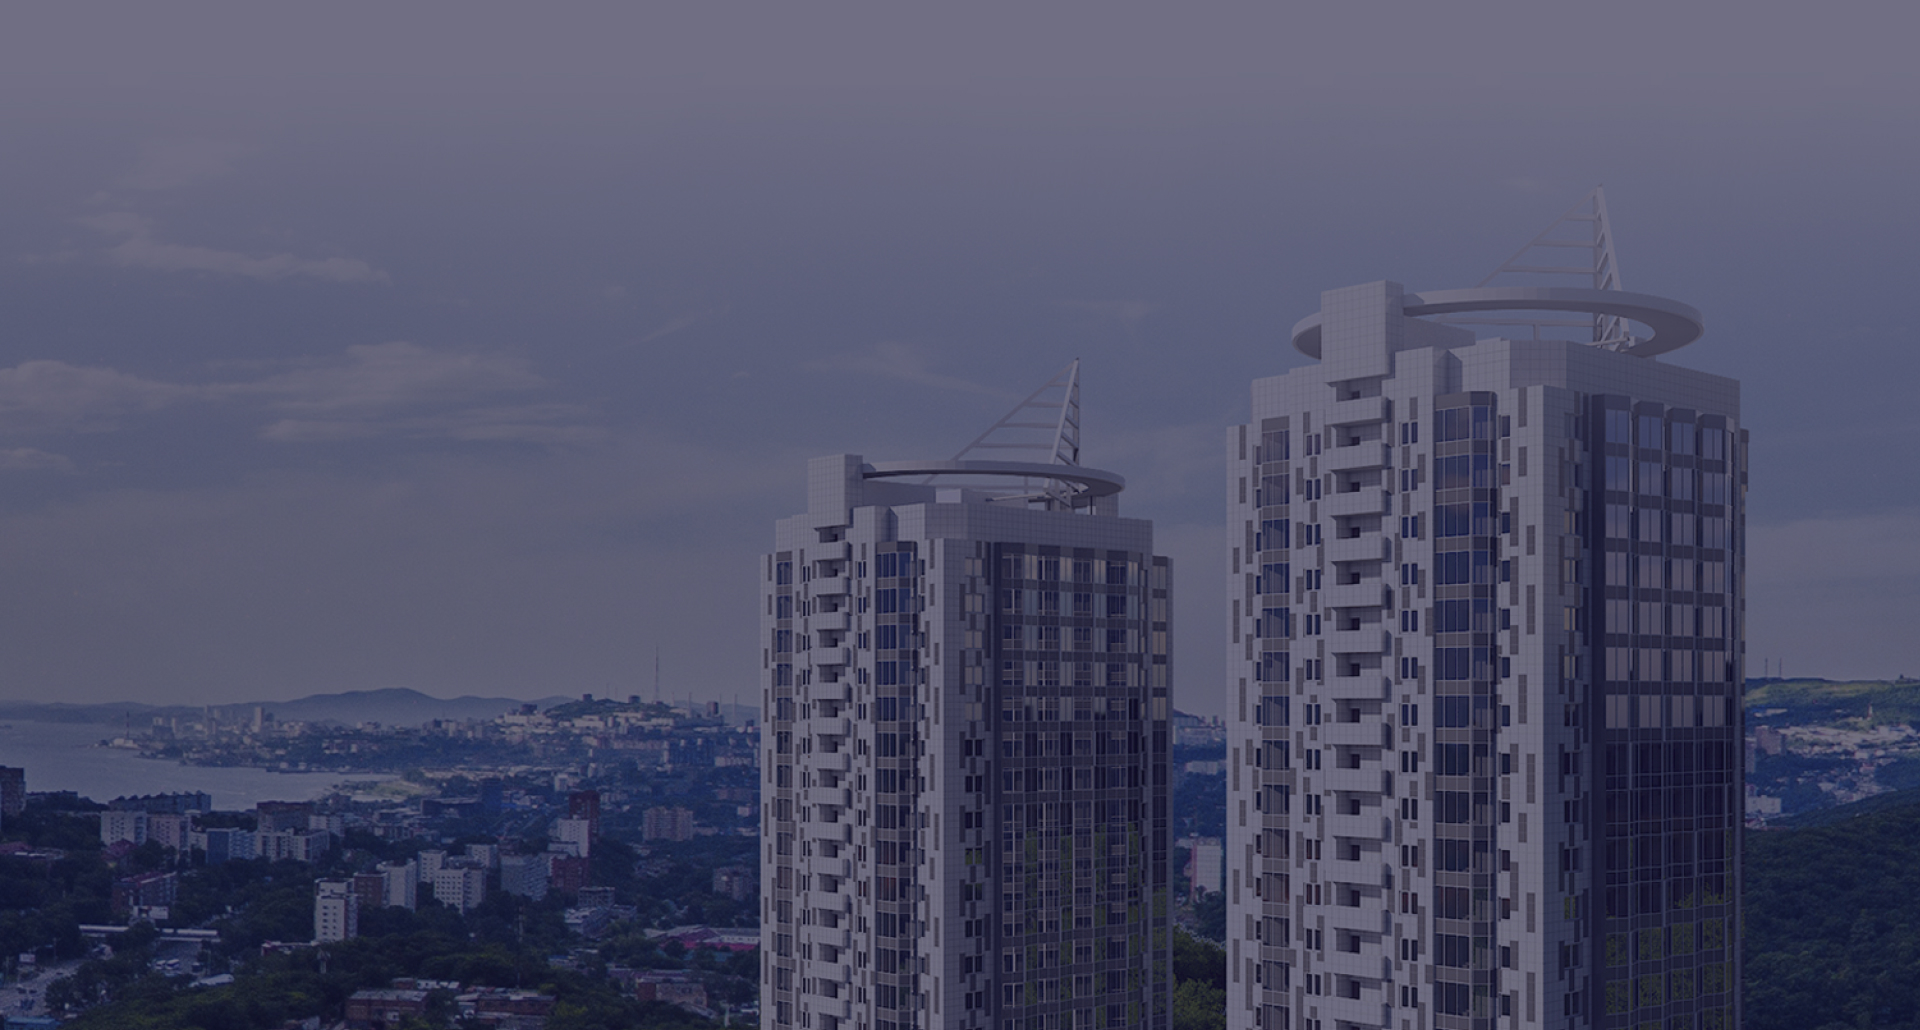
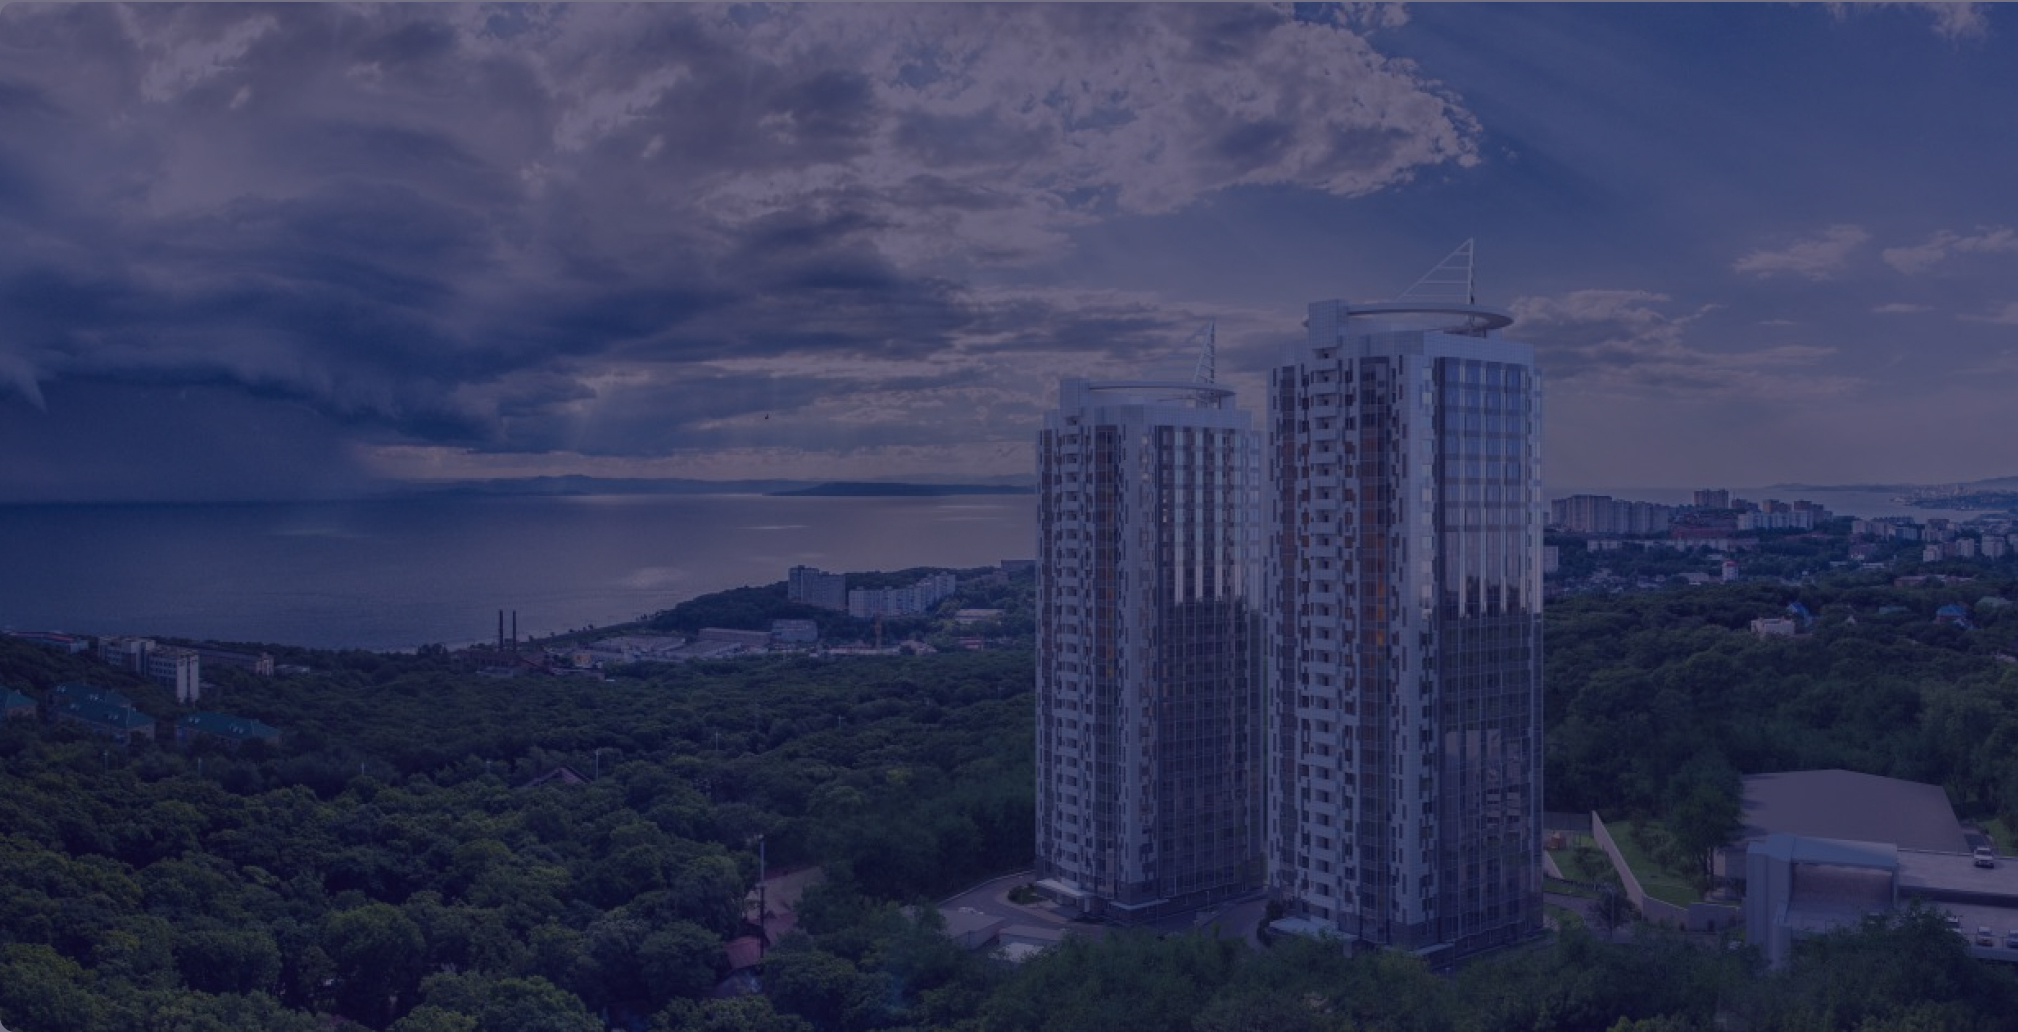
Проработка CSS блоков

diff --git a/style.css b/style.css
@@ -126,7 +126,7 @@
 .page__body {
   margin: 0 auto;
   color: var(--dark-grey);
-  background-color: var(--bg-grey-1);
+  background-color: var(--white);
   font-size: 18px;
 }
 
@@ -159,6 +159,11 @@ li, p {
   margin: 0;
 }
 
+span {
+  font-weight: 500;
+  color: var(--black);
+}
+
 .block-title {
   font-family: 'Stem',  Arial, sans-serif;
   font-size: 60px;
@@ -178,6 +183,7 @@ li, p {
   font-size: 18px;
   line-height: 1em;
   position: relative;
+  top: 50px;
 }
 
 .page-header__wrapper {
@@ -258,6 +264,10 @@ li, p {
   color: var(--white);
 }
 
+.promo-block__wrapper {
+  padding-bottom: 135px;
+}
+
 .promo-block::before {
   display: block;
   content: "";
@@ -266,7 +276,7 @@ li, p {
   height: 1030px;
   background-image: url("img/main-pic-filter.jpg");
   background-repeat: no-repeat;
-  background-position-x: 50%;
+  background-size: cover;
   z-index: -2;
   top: 0;
 }
@@ -276,10 +286,18 @@ li, p {
   font-size: 60px;
   line-height: 70px;
   font-weight: 900;
+  max-width: 650px;
+  margin-top: 93px;
+  margin-bottom: 55px;
+}
+
+.promo-block p {
+  max-width: 47%;
 }
 
 .promo-block__upper-description {
   color: var(--add-grey);
+  margin-bottom: 55px;
 }
 
 .promo-block span {
@@ -290,58 +308,217 @@ li, p {
 .promo-block__links {
   font-family: 'Averta';
   font-weight: 500;
+  font-size: 18px;
   line-height: 24px;
   color: var(--white);
+  margin-top: 70px;
 }
 
 .button-blue {
   background-color: var(--blue);
   color: var(--white);
-  padding: 1em 2.25em;
+  padding: 17.5px 45px;
   border-radius: 12px;
+  font-family: 'Averta';
+  font-weight: 500;
+  font-size: 18px;
+  line-height: 24px;
 }
 
-
-
-
-
-
-
-
-
-
-
-
-
-
-
-
-
-
-
-
-
-
-
-
-
-
-
+.promo-block__links-find-apart {
+  padding: 17px 45px;
+  border: 1px solid var(--white);
+  border-radius: 12px;
+  margin-left: 24px;
+}
 
 
 /* чем занимается компания */
 
+.about-us-block__wrapper {
+  padding: 180px 0;
+  position: relative;
+}
 
+.about-us-block__wrapper::before {
+  display: block;
+  content: "";
+  position: absolute;
+  width: 340px;
+  height: 666px;
+  background-image: url("img/phone-pic.png");
+  background-repeat: no-repeat;
+  left: 68%;
+  top: 70px;
+}
+
+.about-us-block__wrapper::after {
+  display: block;
+  content: "";
+  position: absolute;
+  width: 562px;
+  height: 562px;
+  border-radius: 50%;
+  background: var(--bg-grey-2);
+  left: 62%;
+  top: 115px;
+  z-index: -2;
+}
+
+.about-us-block__title {
+  margin-bottom: 30px;
+}
+
+.about-us-block p {
+  font-family: 'Museo';
+  font-weight: 300;
+  font-size: 20px;
+  line-height: 30px;
+  color: var(--dark-grey);
+  max-width: 564px;
+}
+
+.about-us-block__lower-description {
+  margin-top: 47px;
+  margin-bottom: 60px;
+}
 
 /* основная инфа по компании */
 
+.info-block__wrapper {
+  display: flex;
+  padding-top: 20px;
+  padding-bottom: 161px;
+}
 
+.info-block__options {
+  display: flex;
+  margin-right: auto;
+}
 
+.info-block__options-link {
+  padding: 2em 2.25vw;
+  display: flex;
+  flex-direction: column;
+}
+
+.info-block__options-link:hover {
+  box-shadow: 0px 0px 108px rgba(0, 0, 0, 0.06);
+  border-radius: 12px;
+}
+
+.info-block__options-link:hover .info-block__options-link-btn {
+  background-color: var(--blue);
+  color: var(--white);
+  border: none;
+}
+
+.info-block__options-link img {
+  margin-bottom: 48px;
+}
+
+.info-block__options-link-title {
+  font-family: "Stem";
+  font-weight: 700;
+  font-size: 28px;
+  line-height: 28px;
+  color: var(--black);
+  margin-bottom: 20px;
+  white-space: nowrap;
+}
+
+.info-block__options-link-desc {
+  max-width: 300px;
+  margin-bottom: 41px;
+  font-family: 'Museo';
+  font-weight: 300;
+  font-size: 18px;
+  line-height: 30px;
+  color: var(--grey);
+}
+
+.info-block__options-link-btn {
+  padding: 17px 45px;
+  border: 1px solid var(--add-grey);
+  border-radius: 12px;
+  font-family: 'Averta';
+  font-weight: 500;
+  font-size: 18px;
+  line-height: 16px;
+  cursor: pointer;
+}
+
+.info-block__description {
+  display: flex;
+  flex-direction: column;
+  max-width: 500px;
+}
+
+.info-block__description-title {
+  margin-bottom: 40px;
+}
+
+.info-block__description p {
+  font-family: 'Museo';
+  font-weight: 300;
+  font-size: 20px;
+  line-height: 30px;
+  color: var(--dark-grey);
+}
+
+.info-block__description-middle {
+  margin: 48px 0;
+}
+
+.info-block__description-links {
+  font-family: 'Averta';
+  font-weight: 500;
+  font-size: 18px;
+  line-height: 16px;
+  cursor: pointer;
+  color: var(--blue);
+  margin-top: 45px;
+}
+
+.info-block__description-phone {
+  margin-right: 64px;
+}
 
 /* преимущества */
 
+.advantages-block__wrapper {
+  background-color: var(--black);
+  border-radius: 20px;
+  width: 90vw;
+}
+
+.advantages-block__list {
+  display: grid;
+  grid-template-columns: 1fr 1fr 1fr;
+  padding: 85px 65px;
+}
+
+.advantages-block__item {
+  padding-left: 100px;
+}
 
 
+.advantages-block__item-title {
+  font-family: 'Stem';
+  font-weight: 500;
+  font-size: 34px;
+  line-height: 40px;
+  color: var(--white);
+  margin-bottom: 13px;
+}
+
+.advantages-block__item-desc {
+  font-family: 'Museo';
+  font-weight: 300;
+  font-size: 18px;
+  line-height: 30px;
+  color: var(--add-grey);
+}
 
 /* подбор квартиры (форма) */
 
@@ -360,3 +537,47 @@ li, p {
 
 
 /* футер */
+
+.page-footer__container {
+  display: grid;
+  grid-template-columns: 1fr 1fr 1fr 1fr 1fr;
+  padding: 68px 0;
+}
+
+.page-footer__container-info {
+  font-family: 'Museo';
+  font-weight: 300;
+  font-size: 20px;
+  line-height: 30px;
+  margin-top: 33px;
+}
+
+.page-footer__container-item {
+  font-family: 'Averta';
+  font-weight: 300;
+  font-size: 18px;
+  line-height: 18px;
+}
+
+.page-footer__container-item:not(:nth-child(4)) {
+  margin-bottom: 24px;
+}
+
+.page-footer__container-socials-link {
+  gap: 4px 8px;
+}
+
+.page-footer__itome {
+  display: flex;
+  justify-content: center;
+  border-top: 1px solid var(--add-grey);
+}
+
+.page-footer__itome a {
+  font-family: 'Museo';
+  font-weight: 300;
+  font-size: 16px;
+  line-height: 18px;
+  padding: 47px 0;
+
+}

diff --git a/index.html b/index.html
@@ -124,16 +124,18 @@
               <img src="img/icon-building.svg" width="120" height="120" alt="Здание">
               <p class="info-block__options-link-title">Подобрать квартиру</p>
               <p class="info-block__options-link-desc">Если вам сложно определиться что вы хотите. Мы соориентируем вас по цене и другим деталям</p>
-              <button class="info-block__options-link-btn button-blue">Подобрать</button>
+              <button class="info-block__options-link-btn">Подобрать</button>
             </a>
           </div>
           <div class="info-block__description">
             <h2 class="info-block__description-title block-title">Квартиры в новостройках для каждого</h2>
-            <p class="info-block__description-upper">Дешёвый, средний и премиум сегмент.</p>
+            <p class="info-block__description-upper"><span>Дешёвый, средний и премиум сегмент</span>.</p>
             <p class="info-block__description-middle">Продаём квартиры для всех. Поможем подобрать квартиру мечты для молодых пар, семей с детьми, военнослужащих. Подберём студию с хорошим видом для одиночного проживания.</p>
-            <p class="info-block__description-lower">Любые квартиры в новостройках Владивостока в одном месте.</p>
-            <a href="tel:+7(423)260-50-30">+7 (423) 260-50-30</a>
-            <a href="#">Контакты</a>
+            <p class="info-block__description-lower"><span>Любые квартиры в новостройках Владивостока в одном месте</span>.</p>
+            <div class="info-block__description-links">
+              <a class="info-block__description-phone" href="tel:+7(423)260-50-30">+7 (423) 260-50-30</a>
+              <a href="#">Контакты</a>
+            </div>
           </div>
         </div>
       </section>
@@ -147,12 +149,12 @@
             </li>
 
             <li class="advantages-block__item">
-              <p class="advantages-block__item-title">Почему мы не берём комиссию</p>
+              <p class="advantages-block__item-title">Почему мы не <br>  берём комиссию</p>
               <p class="advantages-block__item-desc">Действуем от имени застройщиков и являемся их официальными представителями. Мы не риелторы. У нас нет скрытых платежей и комиссий.</p>
             </li>
 
             <li class="advantages-block__item">
-              <p class="advantages-block__item-title">Бесплатное бронирование</p>
+              <p class="advantages-block__item-title">Бесплатное <br> бронирование</p>
               <p class="advantages-block__item-desc">Забронируем для вас квартиру абсолютно бесплатно и сохраним её стоимость до выхода на сделку.</p>
             </li>
           </ul>
